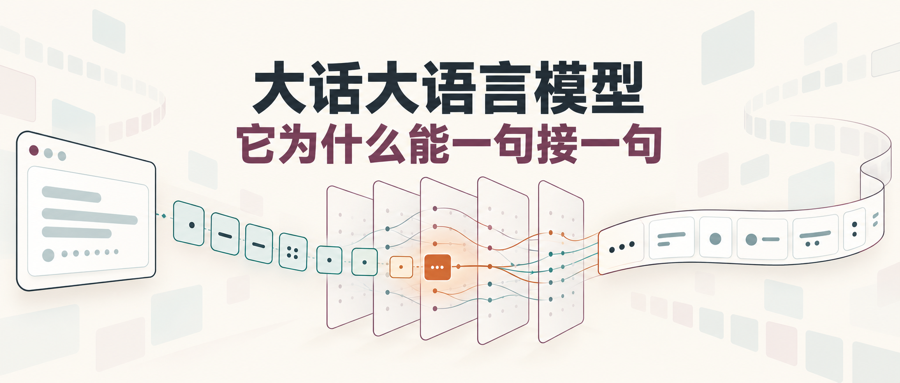
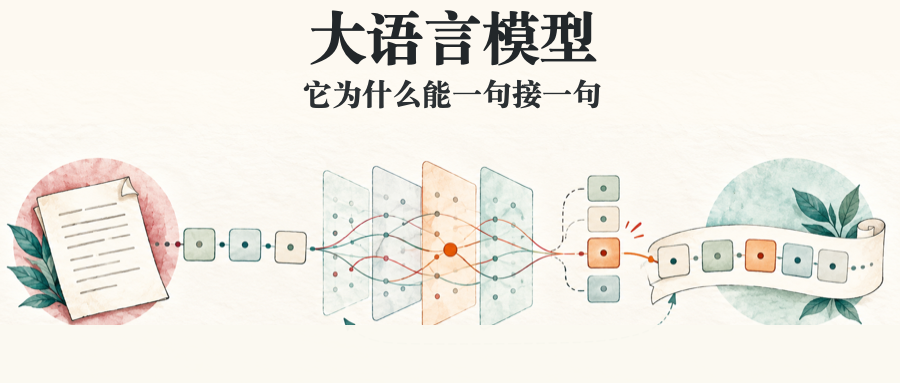
Redesign LLM WeChat covers

diff --git a/content/wechat/01-foundation-models-and-inference/submodules/01-llm/prompts.md b/content/wechat/01-foundation-models-and-inference/submodules/01-llm/prompts.md
@@ -1,11 +1,11 @@
 # 大语言模型子模块配图提示词
 
-版本：1.1.0；修订时间：2026-09-30 11:37 CST；依据提交：`19d428e`（`main`；修订前仅有未跟踪的推文终稿目录）。
+版本：1.2.0；修订时间：2026-10-08 09:46 CST；依据提交：`6d57e8f`（`main`；修订前有无关的多模态文章改动）。
 
 统一规格：1536x1024 PNG，暖白背景，深灰正文，青绿、梅红、蓝与铁锈橙只承担信息语义；不使用贯穿画布的装饰竖条、PPT 母版、渐变、霓虹、立体阴影、水印、Logo 或不可读小字。正文图以机制、对照、证据关系或实验结果为主体，不把正文改排成方框或表格充数。原有成片使用 `gpt-image-2`；`llm-sampling.png` 与 `llm-evidence-audit.png` 于本版使用内置图像生成工具重绘，并以已认可的生成循环、自注意力和 RNN 对比图作为样式参考。
 
-1. `llm-cover-wechat-horizontal-v2.png`：主文公众号封面图。逐个亮起的 token 方块穿过 Transformer 层并形成输出纸带，标题“大话大语言模型”“它为什么能一句接一句”。
-2. `llm-cover-interview-wechat.png`：面试副文公众号封面图。标题“面试题：大语言模型从原理到验证怎么答”，画面用问题卡、token、注意力连接和核验清单表达“机制—错误—验证”。
+1. `llm-cover-wechat-horizontal-v2.png`：主文公众号封面图。标题“大语言模型”，副标题“它为什么能一句接一句”；无文字底图用输入纸张、token 方块、上下文注意力层、候选分支、被选中的橙色 token 和追加后的输出纸带表示自回归生成。底部 15% 只保留暖白纸张纹理。
+2. `llm-cover-interview-wechat.png`：面试副文公众号封面图。不重复完整文章标题；用中央放大镜同时查看 token 与注意力关系、证据清单，底部只保留“原理”“验证”两个短标签。
 3. `llm-token-generation.png`：生成循环，标签“输入 token”“概率分布”“选择下一个”“继续生成”。
 4. `llm-sampling.png`：生成参数对照图。使用同一组会议通知候选续写及其示意概率，分别展示低/高温度造成的分布集中或平缓、`Top-k = 2` 固定保留两个候选、`Top-p = 0.90` 累计到 92% 后停止扩展。三个参数区域并列，不画成必然串行的处理流水线；结论明确“参数改变候选分布与选择范围，不提供事实依据”。
 5. `llm-evidence-audit.png`：会议通知的陈述—依据—判断证据追踪图。顶部区分最新要求、旧日程与执行结果；中部把输出拆成“改至 16:00—17:00”“地点仍为 A302”“会议链接稍后补充”“邀请已发出”四条陈述，用来源连线分别落到保留、删除并改为线上、改写为链接待补、禁止写入。不要使用传统三列表格。
@@ -17,6 +17,22 @@
 `llm-token-generation.png` 已按正文术语重绘；主文和面试副文现在共用 `llm-principle.png` 解释自注意力机制。
 
 复核：已目视检查新图的中文、箭头、参数关系及封面图中央安全区；正文不重复插入封面图。
+
+## 1.2.0 主副封面重绘
+
+现行封面统一遵循 [项目规范 5.3.4](../../../../../docs/project-specification.md)：900×383 PNG，生成式工具只制作无文字纸张插画，中文由 `scripts/compose-llm-covers.mjs` 确定性叠加。
+
+### `llm-cover-wechat-horizontal-v2.png`
+
+- 标题：58 px 重宋体“大语言模型”；副标题：30 px 重宋体“它为什么能一句接一句”。
+- 底图提示词要点：暖白纸张、低饱和编辑插画；左侧输入纸张拆成 token，中部经过多层上下文与注意力连线，右侧从候选中选出橙色 token 并追加到输出纸带；不出现文字、数字、伪文字、机器人、脑图、霓虹和玻璃卡片。
+- 构图：顶部约 30% 留给标题；解释性插画位于中部；底部 58 px（约 15%）只放可遮挡背景，不放 token、箭头、关系线或结论。
+
+### `llm-cover-interview-wechat.png`
+
+- 底图提示词要点：一个中央放大镜检查同一张答案纸的两个互补部分；左侧是 token 链与少量注意力弧线，右侧是证据清单与核对符号。全部关键信息放在中央正方形安全区，外围只留暖白纸张纹理。
+- 确定性短标签：34 px 粗黑体“原理”“验证”；两侧都是必要环节，不使用红叉暗示其中一侧错误。
+- 禁止完整文章标题、左右边缘小卡片、纸堆、长流程和装饰面板。验收时同时查看 900×383 原图和约 128×128 的居中裁切缩略图。
 
 ## 0.9.0 重绘提示词记录
 

diff --git a/content/wechat/01-foundation-models-and-inference/submodules/01-llm/beginner-main.md b/content/wechat/01-foundation-models-and-inference/submodules/01-llm/beginner-main.md
@@ -12,10 +12,10 @@ topic: "foundation"
 content_level: "submodule"
 submodule: "llm"
 series_order: 1
-version: "0.6.6"
-stage: "将引子标题统一为下期预告"
-git_state: "基于 540c77e（main 与 origin/main 同步；另有未跟踪的推文终稿目录）"
-modified_at: "2026-09-30 10:30 CST"
+version: "0.6.7"
+stage: "按 15% 遮罩安全区与自回归生成主题重做主文封面"
+git_state: "基于 6d57e8f（main；修改前有无关的多模态文章改动）"
+modified_at: "2026-10-08 09:46 CST"
 ---
 
 # 大话大语言模型—它为什么能一句接一句

diff --git a/content/wechat/01-foundation-models-and-inference/submodules/01-llm/interview-side.md b/content/wechat/01-foundation-models-and-inference/submodules/01-llm/interview-side.md
@@ -12,10 +12,10 @@ topic: "foundation"
 content_level: "submodule"
 submodule: "llm"
 series_order: 1
-version: "0.4.2"
-stage: "将记忆点改为独立标题和浅橙引用框"
-git_state: "基于 30932b8（main；修改前仅有未跟踪的推文终稿目录）"
-modified_at: "2026-09-30 11:53 CST"
+version: "0.4.3"
+stage: "按中央小缩略图规则重做原理与验证主题封面"
+git_state: "基于 6d57e8f（main；修改前有无关的多模态文章改动）"
+modified_at: "2026-10-08 09:46 CST"
 ---
 
 # 面试题：大语言模型从原理到验证怎么答
